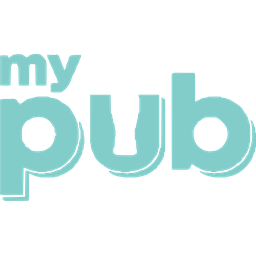
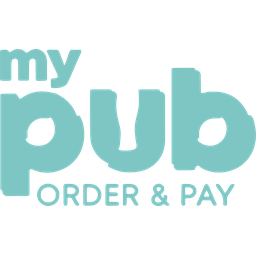
v9.8: redraw VoiceForge and My Pub, add Nothing X
VoiceForge: the anvil and sound waves traced from the app's logo layer,
filled with the cyan, blue and pink stripes that sit behind it (R9).
My Pub: the wordmark with ORDER & PAY traced in the app's mint (R11),
without the thin inner lines. Both part of Arch's v9 check (M19).
Nothing X is new (export of 21 Nov, 23:04): the two capsules and the red
dot measured from the Play Store icon, linked to its app.

Claude-Session: https://claude.ai/code/session_011AGmuRGN7NPfvrSuXVPQ1T

diff --git a/icons/notes/com_nothing_smartcenter.md b/icons/notes/com_nothing_smartcenter.md
@@ -1,0 +1,9 @@
+# Nothing X
+
+Added in version 9.8 from the export of 21 Nov 2026, 23:04 (Arch: "also make these while ur at it").
+
+- Source: the 512 px Play Store icon (play.google.com, com.nothing.smartcenter), checked against the phone's export.
+- Measured: both capsules are the same size (151.7 wide, 359.6 long in 512 units), crossing at the middle at 45 degrees;
+  the red dot (radius 56) sits in the end of the black capsule, centred on its round end.
+- Colours: black capsule to white (R10), Nothing red dot #D71921 kept, light grey capsule to mid grey #9A9A9A so the two
+  capsules stay apart. White tile left out (R5).
